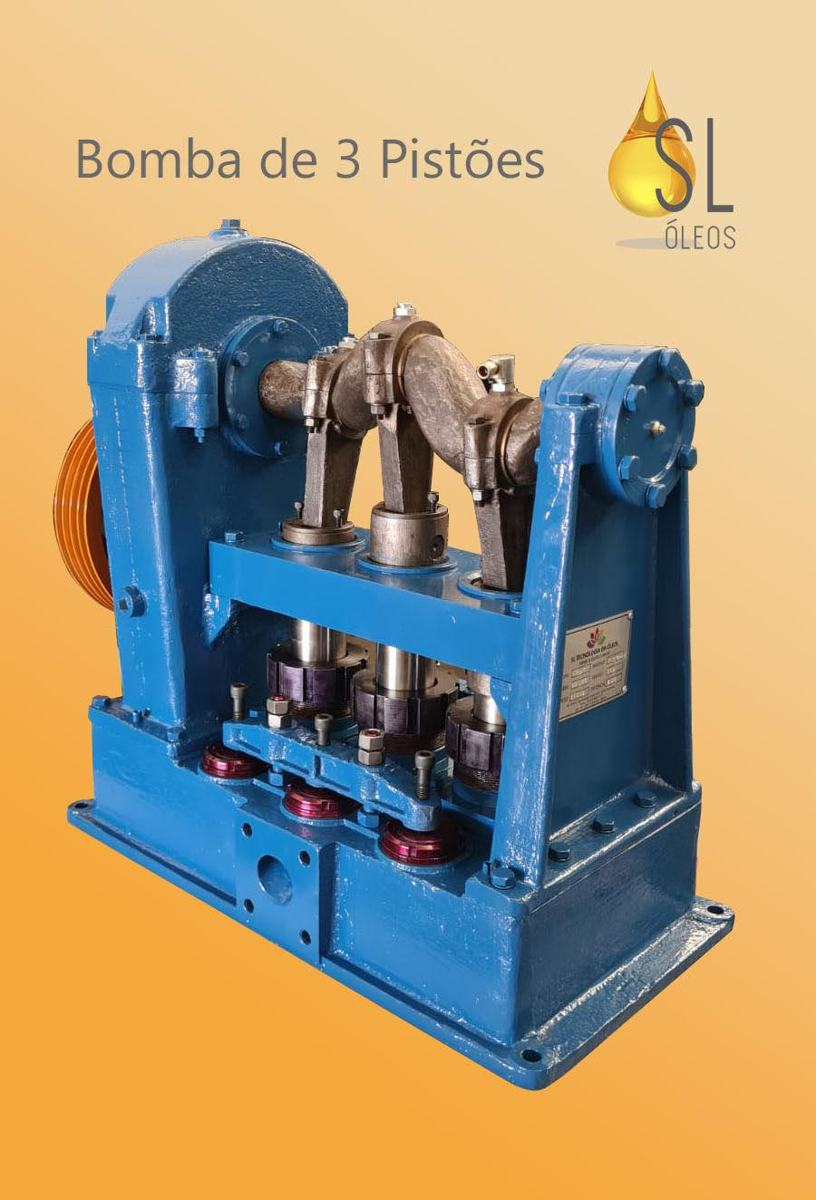
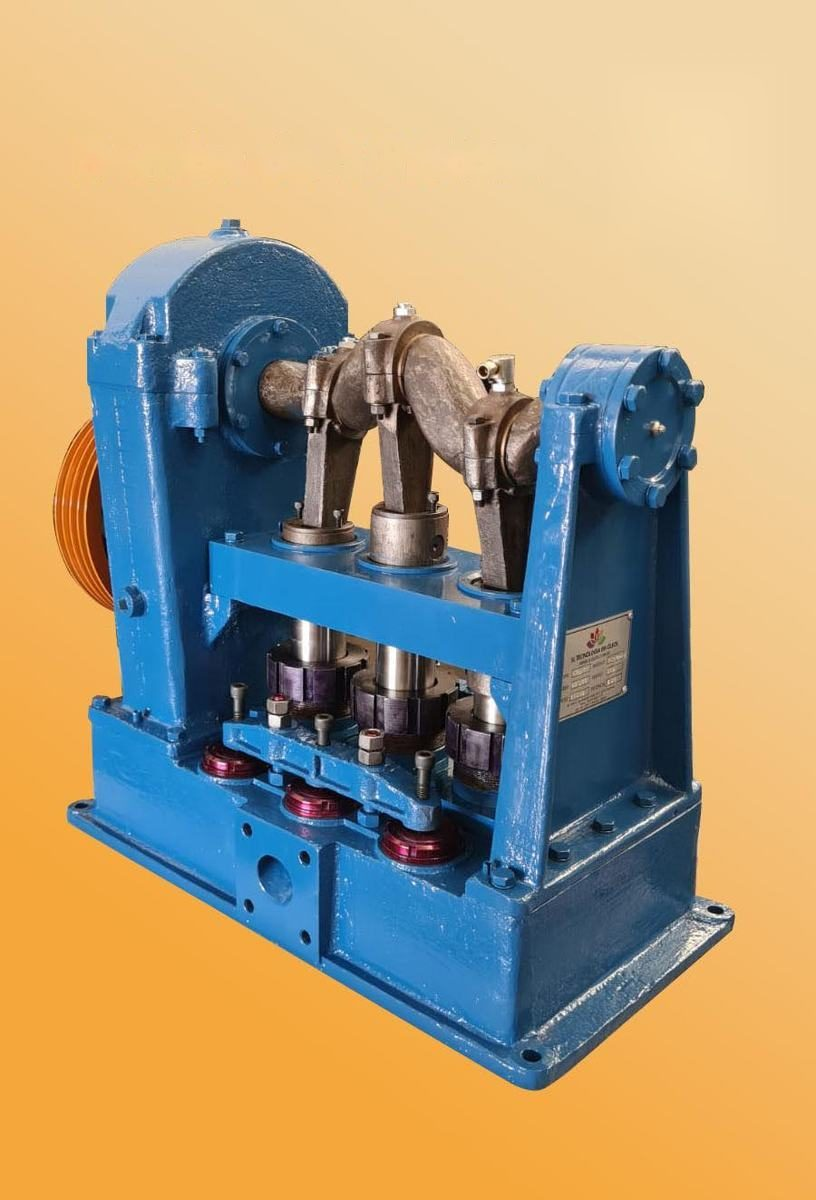
Remove o símbolo antigo das fotos; fotos maiores no celular com toque para ampliar
Claude-Session: https://claude.ai/code/session_0139D8DZVSgoFxccMGhH2RJk

Changed region(s): [[0.7353, 0.0617, 0.9191, 0.2158], [0.0919, 0.0925, 0.674, 0.1542]]

diff --git a/index.html b/index.html
@@ -132,6 +132,22 @@ h1,h2,h3{font-family:var(--f-display);margin:0;line-height:1;text-wrap:balance}
 .maq.cena .inteira{order:-1}
 .dica-zoom{font-size:13px;color:#bdbcba;margin:-6px 0 14px}
 .pecas .col-b{display:flex;flex-direction:column;flex:1}
+
+/* ===== Celular: foto e texto centralizados juntos, foto na largura toda ===== */
+@media not all and (min-width:820px) and (min-aspect-ratio:1/1){
+  .maq.cena .inner{justify-content:center;padding-top:calc(104px + var(--sa-t))}
+  .maq.cena .topo-cena{position:absolute;top:calc(60px + var(--sa-t));left:22px;right:22px}
+  .maq .inteira{flex:none;position:relative;margin:0 -8px 16px}
+  .maq .inteira img{width:100%;max-height:max(200px,calc(100dvh - 500px));object-fit:contain;border-radius:8px}
+  .pecas .fotos{grid-template-columns:1fr 1fr}
+  .pecas .fotos img:first-child{grid-column:1 / span 2;aspect-ratio:2/1;object-fit:contain;background:#ececeb}
+  .pecas .fotos img:not(:first-child){aspect-ratio:2/1}
+  .pecas h2{margin:6px 0 8px}
+  .pecas p{margin-bottom:10px;font-size:14px}
+  .pecas li{padding:8px 0;font-size:13.5px}
+  .pecas ul{margin-bottom:12px}
+}
+.maq .inteira .ampliar{position:absolute;right:10px;bottom:10px;font:700 10.5px/1 var(--f-body);letter-spacing:.06em;text-transform:uppercase;background:rgba(33,32,32,.78);color:#fff;padding:7px 9px;border-radius:99px;pointer-events:none}
 /* ===== Computador (e-mail, link aberto no PC): cada tela em duas colunas ===== */
 @media (min-width:820px) and (min-aspect-ratio:1/1){
   .inner{max-width:1200px;display:grid;grid-template-columns:minmax(0,1.3fr) minmax(0,1fr);grid-template-rows:auto;column-gap:56px;align-items:center;align-content:center;
@@ -222,7 +238,7 @@ PRODUTOS.forEach(p => {
   const acoes = `<div class="acoes"><button class="btn-ficha" data-ficha="${p.id}">Ficha técnica</button><button class="btn-orc" data-orc="${p.id}"><span class="lbl">+ Orçamento</span></button></div>`;
   h += p.cena
     ? `<section class="slide maq cena"><div class="bg desfoque" style="background-image:url('${p.img}')"></div><div class="frame"></div><div class="inner">
-        <div class="inteira"><img src="${p.img}" alt="${p.nome}" loading="lazy"></div>
+        <div class="inteira"><img src="${p.img}" alt="${p.nome}" data-zoom="${p.img}" data-leg="${p.nome}" loading="lazy"><span class="ampliar">⤢ Ampliar</span></div>
         <div class="col">
         <div class="topo-cena"><img src="${LOGO_BRANCO}" alt="SL Óleos">${p.novo?'<span class="novo">NOVO</span>':""}</div>
         <span class="plaqueta" style="align-self:flex-start">${p.m}</span>

diff --git a/lib/dados.js b/lib/dados.js
@@ -7,7 +7,6 @@ const LOGO = "img/logo-h.png";            // logo horizontal, texto grafite (fun
 const LOGO_BRANCO = "img/logo-h-branco.png"; // logo horizontal, texto branco (fundos escuros)
 const LOGO_V_BRANCO = "img/logo-v-branco.png";
 const CAPA = "img/bomba-bp3.jpg";
-const PLAQUETA = "img/plaqueta-inox.jpg";
 
 /* Grafismo da marca: onda amarela + verde (Manual de Identidade, p. 12) */
 const GRAFISMO = '<svg class="grafismo" viewBox="0 0 600 70" preserveAspectRatio="none" aria-hidden="true"><path d="M0 30 C120 0 230 8 330 30 S520 52 600 0 C540 40 450 56 330 40 S110 22 0 30Z" fill="#dad106"/><path d="M0 50 C120 26 230 36 330 54 S520 72 600 28 C540 64 450 76 330 62 S110 44 0 50Z" fill="#018837"/></svg>';
@@ -86,7 +85,7 @@ const GALERIA = {
   fabrica:[["fabrica-galpao","Fábrica em Jaú/SP"],["fabrica-producao","Linha de produção"],["fabrica-caldeiraria","Caldeiraria"],["fabrica-solda","Soldagem"],
     ["fabrica-usinagem","Usinagem"],["fabrica-tampos","Tampos e chapas"],["fabrica-vaso","Equipamento de grande porte"],["fabrica-transporte","Transporte de equipamento"],["fabrica-icamento","Içamento"]],
   equipamentos:[["eq-prensa-azul","Prensa de grande porte"],["eq-prensa-azul-2","Prensa com unidade hidráulica"],["eq-prensa-sl-tecnologia","Prensa SL Tecnologia"],["eq-prensa-aberta","Prensa com cesto aberto"],
-    ["eq-prensa-cesto","Cesto da prensa"],["eq-rosca","Eixo de helicoides"],["eq-sl-tecnologia","SL Óleos Tecnologia"],["eq-bomba-3-pistoes","Bomba de 3 pistões"],
+    ["eq-prensa-cesto","Cesto da prensa"],["eq-rosca","Eixo de helicoides"],["eq-bomba-3-pistoes","Bomba de 3 pistões"],
     ["eq-valvulas-rotativas","Válvulas rotativas"],["eq-pecas-usinadas","Peças usinadas"],["esp-processo-inox","Processo em inox"],["esp-tanques-inox","Tanques em inox"]]
 };
 const foto = n => "img/a/" + n + ".jpg";

diff --git a/processo.html b/processo.html
@@ -49,11 +49,11 @@ h1,h2,h3{font-family:var(--f-display);margin:0;line-height:1.02;text-wrap:balanc
 .info{padding-top:0}
 .info b{color:var(--ink)}
 .esteira{display:flex;gap:10px;overflow-x:auto;scroll-snap-type:x mandatory;padding:4px 16px 18px;scrollbar-width:thin}
-.maq{flex:0 0 72%;max-width:250px;scroll-snap-align:start;background:var(--steel);border:1px solid var(--line);border-radius:12px;overflow:hidden;cursor:pointer;text-align:left;padding:0;display:flex;flex-direction:column}
+.maq{flex:0 0 82%;max-width:300px;scroll-snap-align:start;background:var(--steel);border:1px solid var(--line);border-radius:12px;overflow:hidden;cursor:pointer;text-align:left;padding:0;display:flex;flex-direction:column}
 .maq .ph{aspect-ratio:4/3;background:#fff;display:flex;align-items:center;justify-content:center;max-width:100%;position:relative}
 .maq .ph img{width:100%;height:100%;object-fit:contain;padding:8px}
-.maq .ph.cena{background:var(--grafite);overflow:hidden;aspect-ratio:1/1}
-.maq .ph.cena img{position:relative;z-index:1;object-fit:contain;padding:12px}
+.maq .ph.cena{background:var(--grafite);overflow:hidden;aspect-ratio:5/4}
+.maq .ph.cena img{position:relative;z-index:1;object-fit:contain;padding:0}
 .maq .ph .desf{position:absolute;inset:-10%;background-size:cover;background-position:center;filter:blur(12px) brightness(.5)}
 .maq .ph.cena::after{content:"";position:absolute;z-index:2;inset:7px;border:2px solid var(--amarelo);border-radius:7px}
 .maq .ph .novo{position:absolute;right:10px;top:10px;z-index:1;font:800 9.5px/1 var(--f-body);letter-spacing:.12em;background:var(--amarelo);color:var(--grafite);padding:6px 8px;border-radius:99px}
